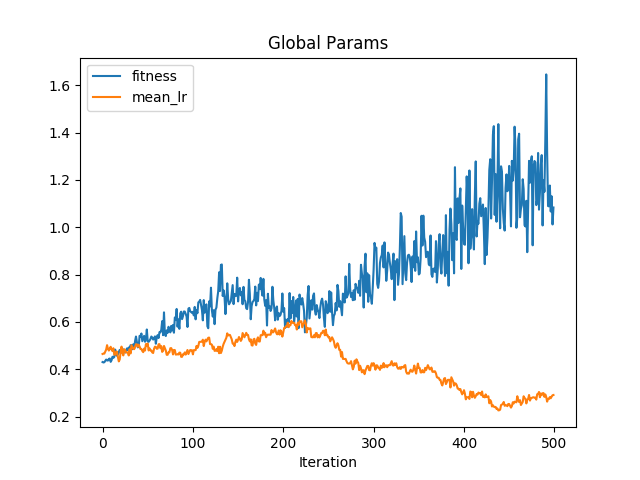
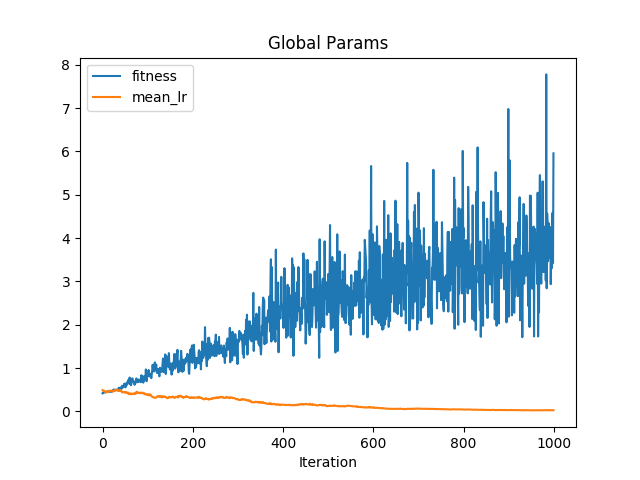
update_hyperparams

diff --git a/runner.py b/runner.py
@@ -4,28 +4,31 @@ from model import Model
 from tqdm import trange
 import matplotlib.pyplot as plt
 
-g = Graph(36, type='Funnel', flag=5)
+g = Graph(16, type='Funnel', flag=5)
 
-# sweep_vals = [0.000001, 0.00001, 0.0001, 0.001, 0.01, 0.1, 0.5, 1, 5, 10]
-# final_losses = []
-#
-# for lr in sweep_vals:
-#     m = Model(id=0, lr=lr)
-#     for _ in trange(500):
-#         x, y = next(iter(g.train_loader))
-#         m.step(x, y)
-#         x, y = next(iter(g.eval_loader))
-#     final_losses.append(m.eval(x, y))
-#
-#
-# plt.plot(sweep_vals, final_losses)
-# plt.xscale('log')
-# plt.xlabel('Log Learning Rate')
-# plt.ylabel('Validation Loss After 1000 Iterations')
-# plt.savefig('lr_sweep')
-# plt.show()
+sweep_vals = [0.000001, 0.00001, 0.0001, 0.001, 0.01, 0.4, 0.5, 1, 5, 10]
+final_losses = []
 
-g.train(500)
+g.train(1000)
 g.vis_global_params(root='shorter')
 g.vis_individual_params(root='shorter')
 g.vis_all_single_net(id=0, root='shorter')
+
+converged_loss = g.global_params['mean_lr'][-1]
+
+for lr in sweep_vals:
+    m = Model(id=0, lr=lr)
+    for _ in trange(500):
+        x, y = next(iter(g.train_loader))
+        m.step(x, y)
+        x, y = next(iter(g.eval_loader))
+    final_losses.append(m.eval(x, y))
+
+
+plt.plot(sweep_vals, final_losses)
+plt.vlines([0.4], 0, 2)
+plt.xscale('log')
+plt.xlabel('Log Learning Rate')
+plt.ylabel('Validation Loss After 500 Iterations')
+plt.savefig('lr_sweep')
+plt.show()

diff --git a/base_graph.py b/base_graph.py
@@ -27,7 +27,7 @@ class Graph(object):
     self.n = n
     self.c = 0.3
     self.models = [Model(id) for id in range(n)]
-    self.n_parents = floor(n / 3.)
+    self.n_parents = floor(n / 2.)
     # graph
     (self.adjMat,
      self.childrenList) = generate_graph(n, type=type, flag=flag)
